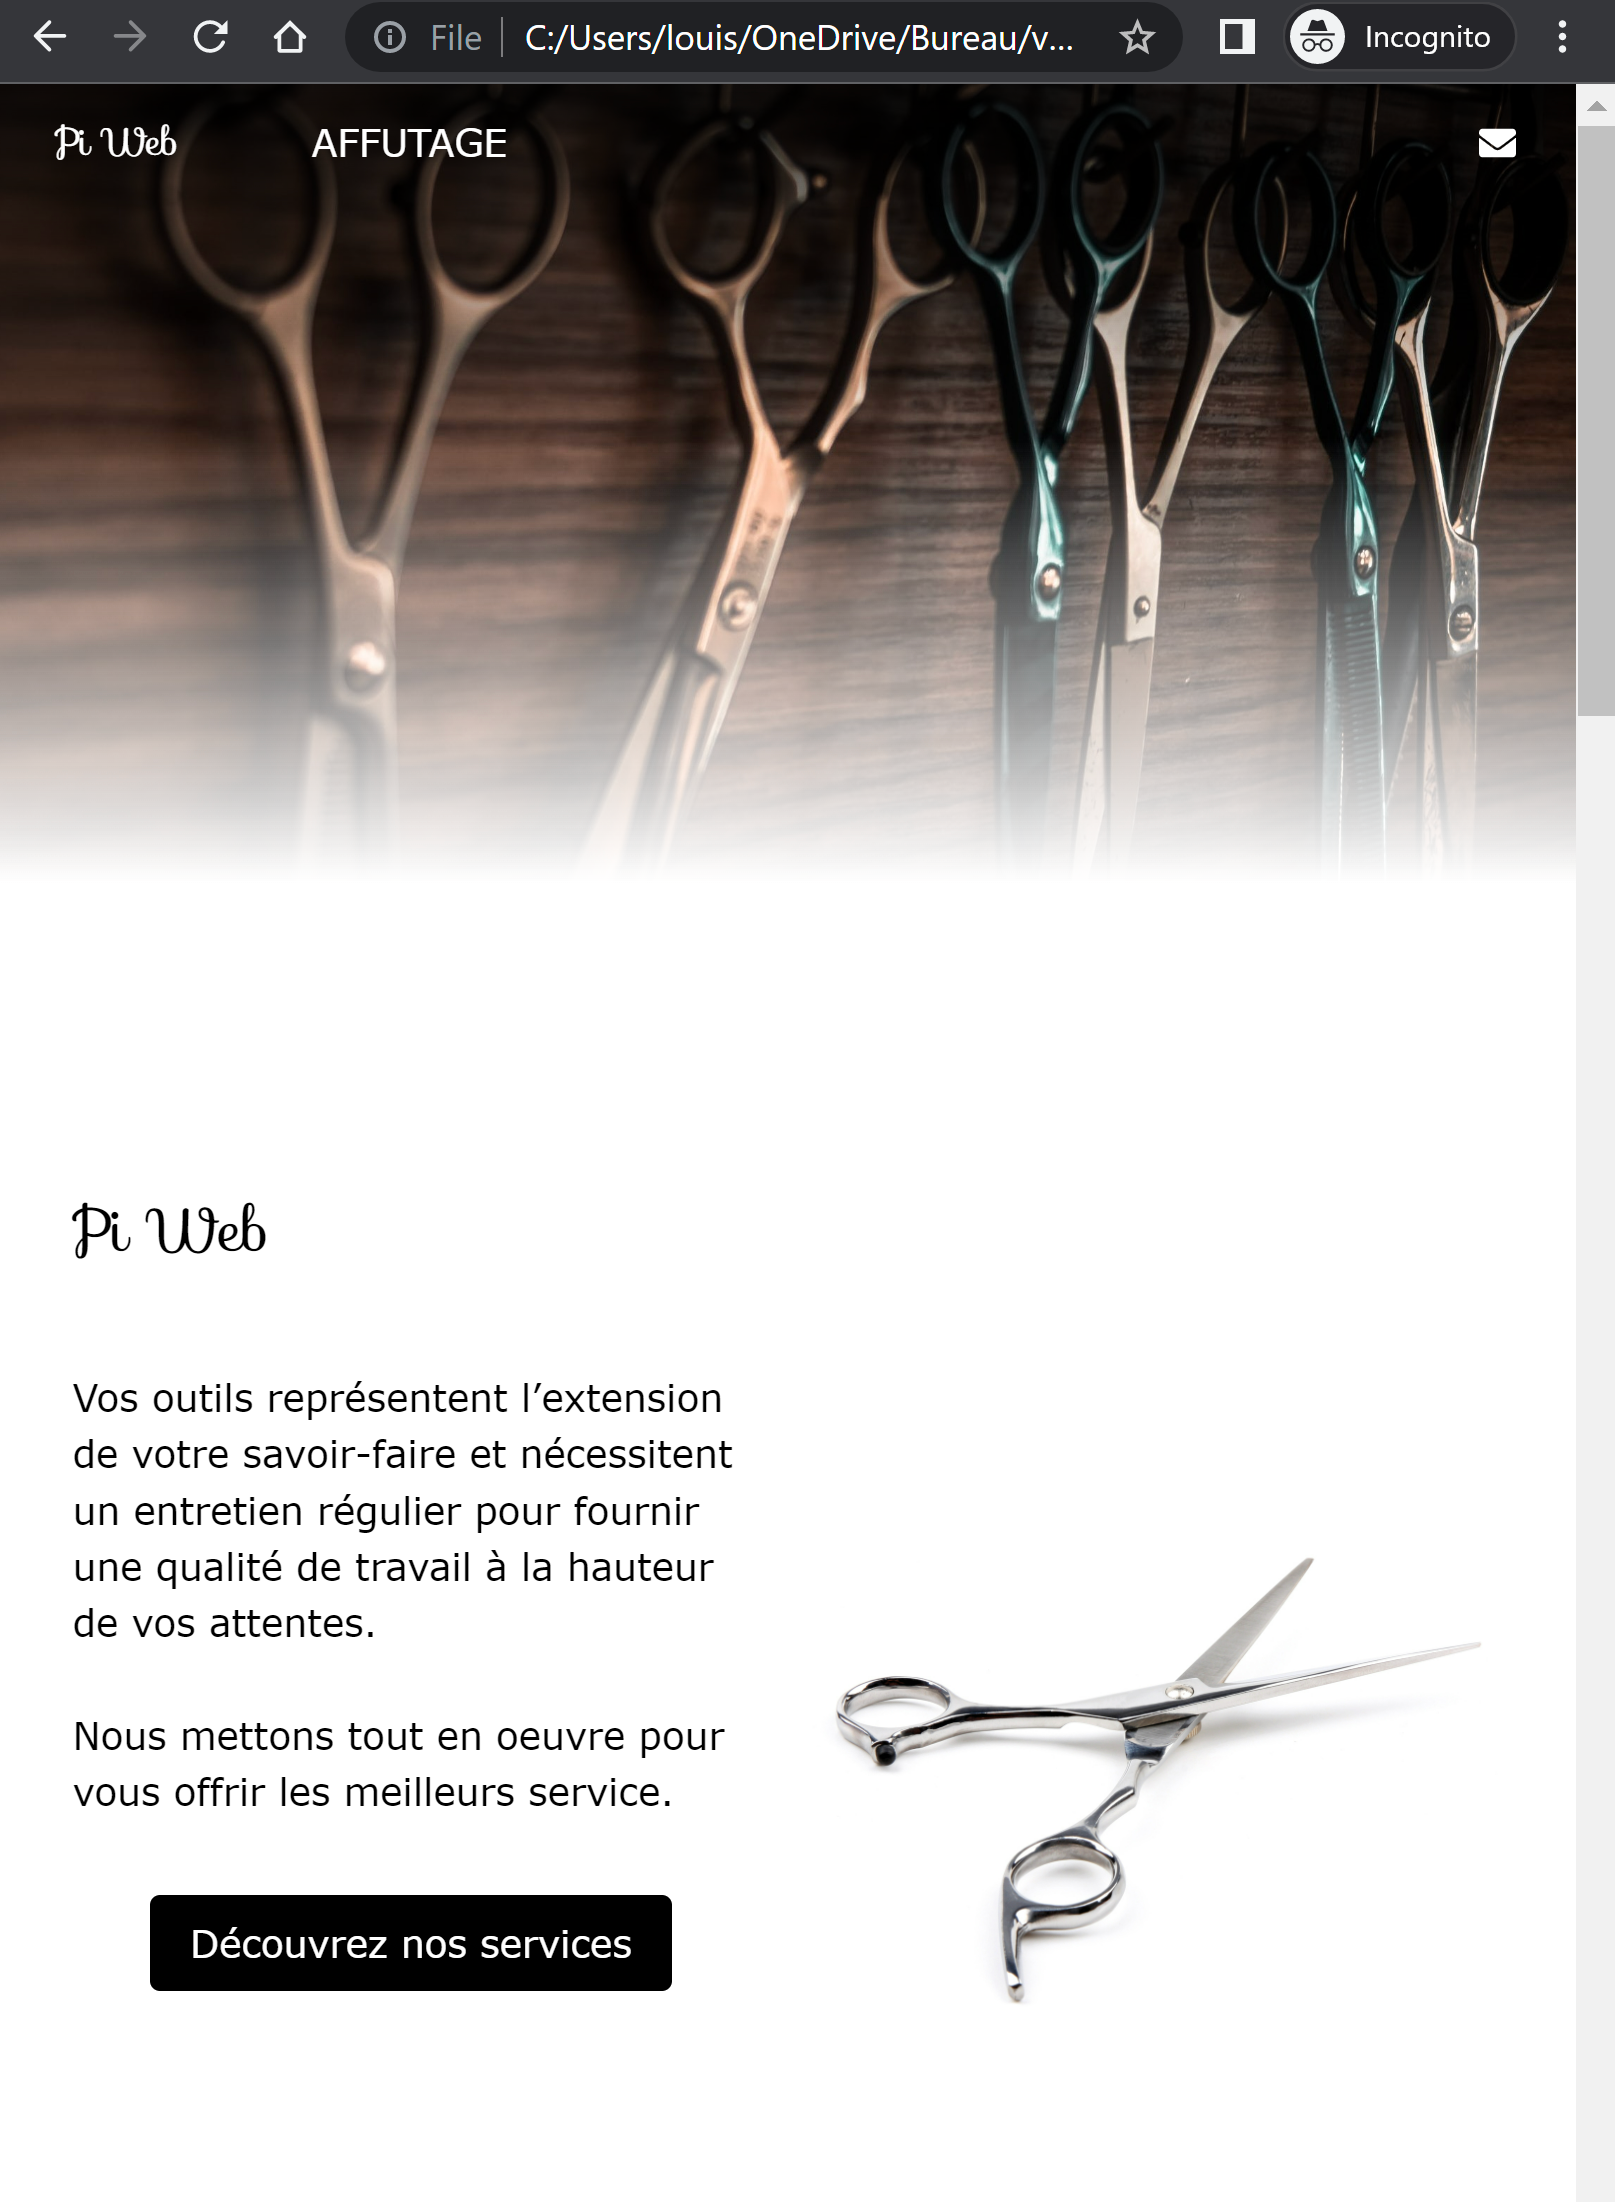
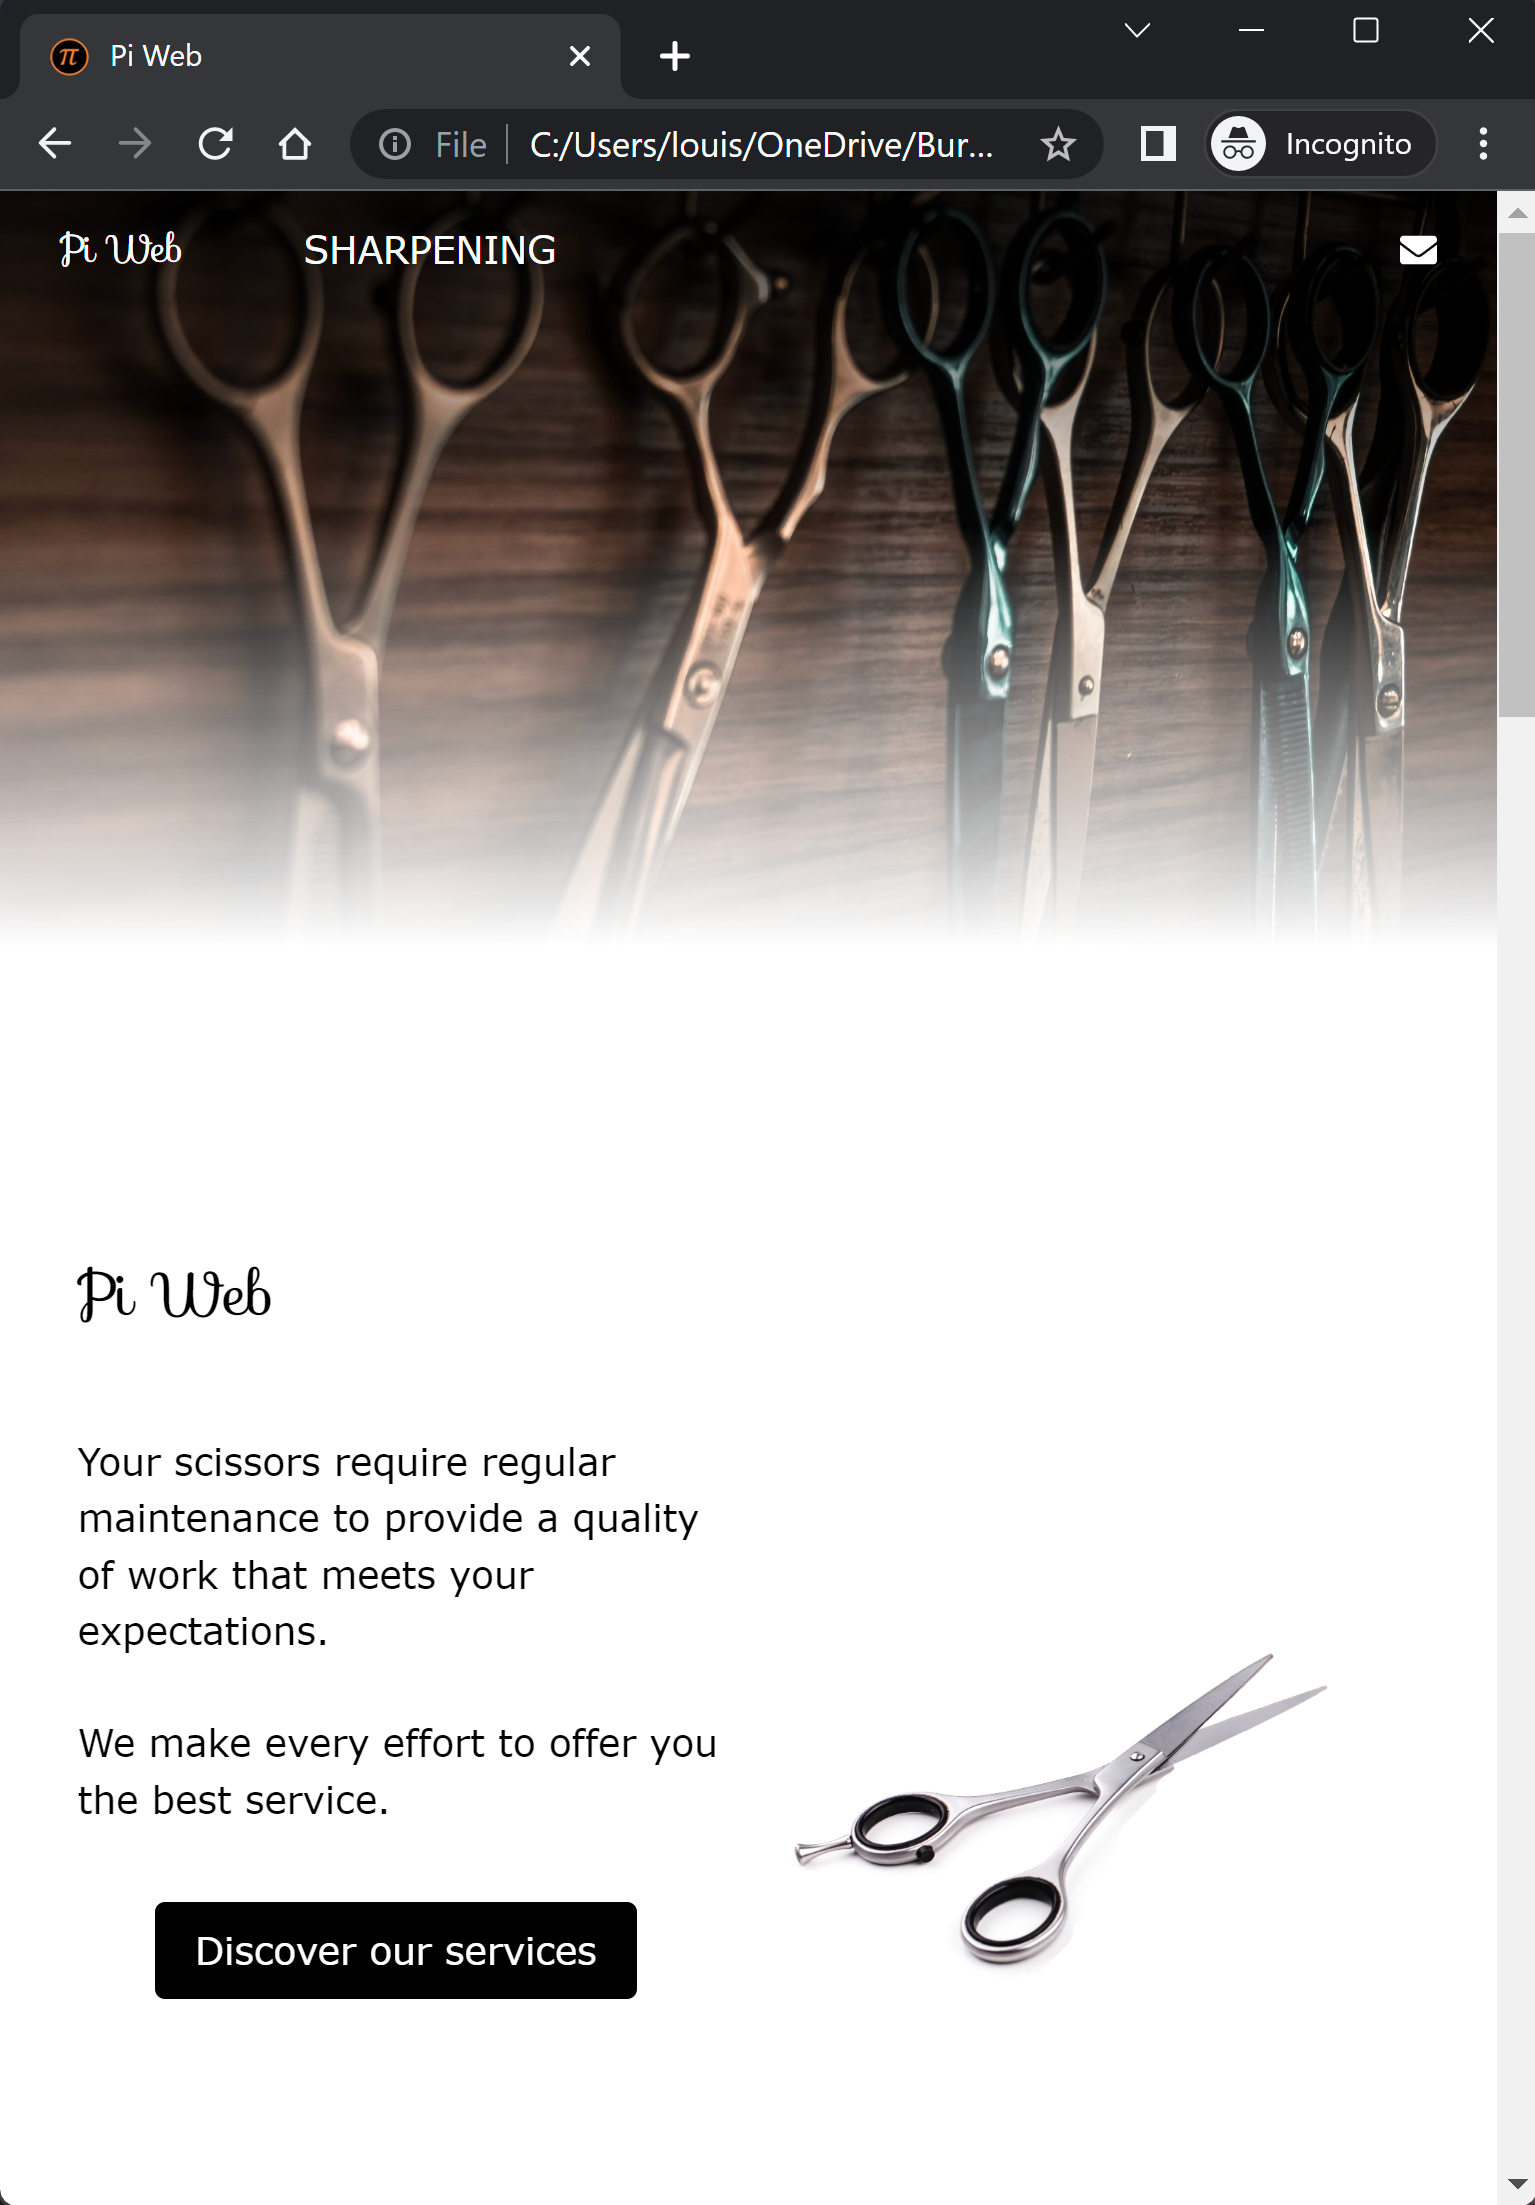
big change

diff --git a/PiWeb-bijoux/confection.html b/PiWeb-bijoux/confection.html
@@ -137,16 +137,16 @@ class NavBar{
         sublist:[
           {
             txt:"Perle",
-            href:"#Perle"
+            href:"shop.html#Perle"
           },{
             txt:"Venturi",
-            href:"#Venturi"
+            href:"shop.html#Venturi"
           },{
             txt:"Argent",
-            href:"#Argent"
+            href:"shop.html#Argent"
           },{
             txt:"Cuivre",
-            href:"#Cuivre"
+            href:"shop.html#Cuivre"
           },
         ],
       },{
@@ -166,7 +166,7 @@ class NavBar{
       },{
         div:false,
         txt:false,
-        href:"#",
+        href:"#cart",
         i:"fas fa-shopping-bag",
       },
     ];
@@ -184,7 +184,7 @@ class NavBar{
         else dropdown.className = dropdown.className.replace(" w3-show", "");
 
         switch(sublistIndex){
-          case 0://to SHOP
+          case 0://to magasin
             break;
           case 1://to confection
             break;
@@ -198,7 +198,7 @@ class NavBar{
         break;
       case 1://to Pi Web (landing page)
         break;
-      case 2://to SHOP
+      case 2://to Magasin
         switch(sublistIndex){
           case 0://to Perle
             break;
@@ -208,7 +208,7 @@ class NavBar{
             break;
           case 3://to Cuivre
             break;
-          default://to SHOP
+          default://to Magasin
             break;
         }
         break;
@@ -276,7 +276,7 @@ class NavBar{
       case 5:
         return "w3-hover-text-red w3-right w3-hide-small";
       case 6 :
-        return "w3-hover-text-yellow w3-right";
+        return "w3-hover-text-yellow w3-right relative";
       default:
         return "w3-hover-text-yellow w3-hide-small";
     }
@@ -318,6 +318,8 @@ class NavBar{
     navbar.appendChild(primary_container);
   }
 }
+
+
 class About{
   constructor(){
     this.title = "ABOUT THE COMPANY";

diff --git a/PiWebaffutage/sharpening.html b/PiWebaffutage/sharpening.html
@@ -94,7 +94,7 @@
         <p>Lorem ipsum dolor sit amet, consectetur adipiscing elit, sed do eiusmod<br>tempor incididunt ut labore et dolore.</p>
       </div>
       <div class="w3-col m6">
-        <img class="w3-image w3-round-large" src="IMG2.jpg" width="700" height="394">
+        <img class="w3-image w3-round-large" src="photo.png" width="700" height="394">
       </div>
     </div>
     </div>
@@ -107,7 +107,7 @@
           <p><br>Our qualified specialist submits your siceaux to a detailed examination in order to judge its condition and note the defect(s)..</p>
         </div>
         <div class="w3-col m6">
-          <img class="w3-image w3-round-large" src="IMG1.jpg" width="700" height="394">
+          <img class="w3-image w3-round-large" src="photo1.png" width="700" height="394">
         </div>
       </div>
       </div>

diff --git a/index.html b/index.html
@@ -1,10 +1,11 @@
 <!DOCTYPE html>
 <html lang="en">
 <head>
+    <meta name="description" content="Custom-made website & web app">
     <meta charset="UTF-8">
     <meta http-equiv="X-UA-Compatible" content="IE=edge">
     <meta name="viewport" content="width=device-width, initial-scale=1.0">
-    <title>Pi Web</title>
+    <title>Pi Web - Custom-made website & web app</title>
     <script defer src="script.js"></script>
     <link rel="stylesheet" href="style.css">
     <link rel="icon" href="image/logo 2.png" type="image/x-icon">

diff --git a/PiWebaffutage/index.html b/PiWebaffutage/index.html
@@ -170,7 +170,7 @@ img {
               </div>
           </div>
           <div class="w3-col m6">
-          <img class="w3-image w3-round-large limg margin-down" src="IMG1.jpg">
+          <img class="w3-image w3-round-large limg margin-down" src="photo1.png">
         </div>
       </div>
       </div>
